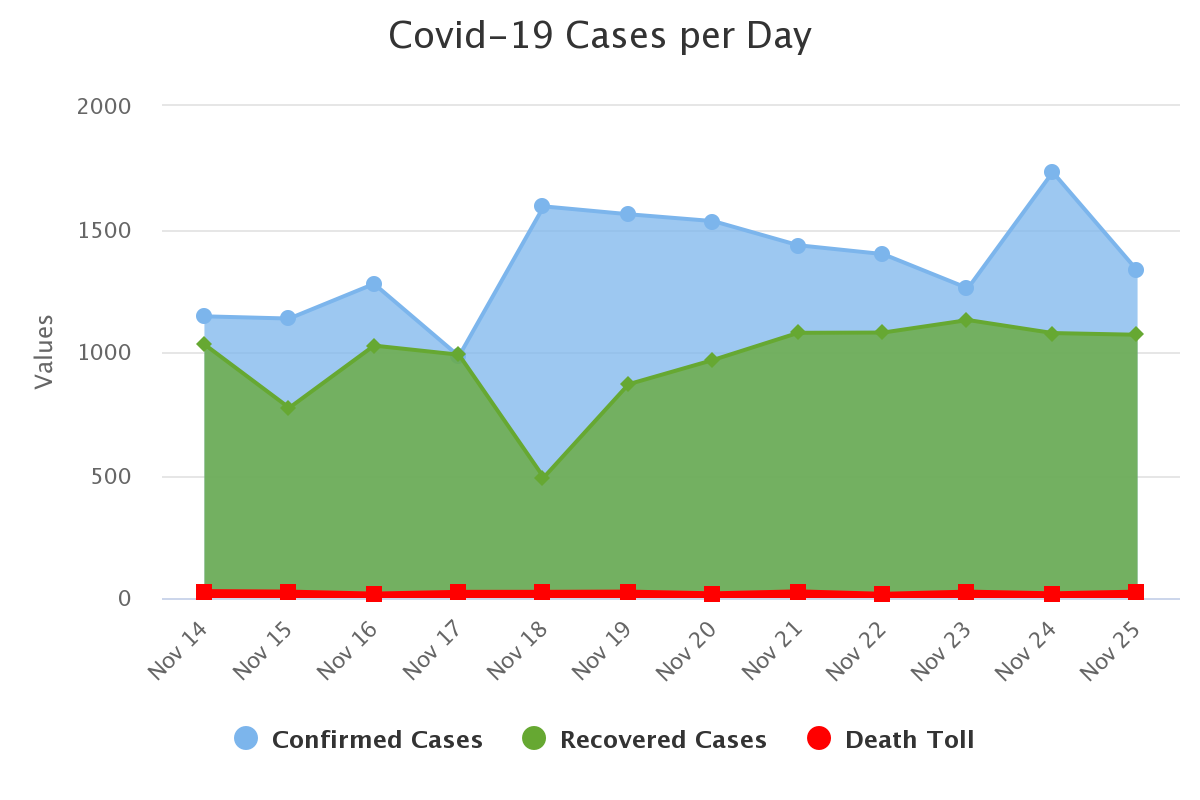
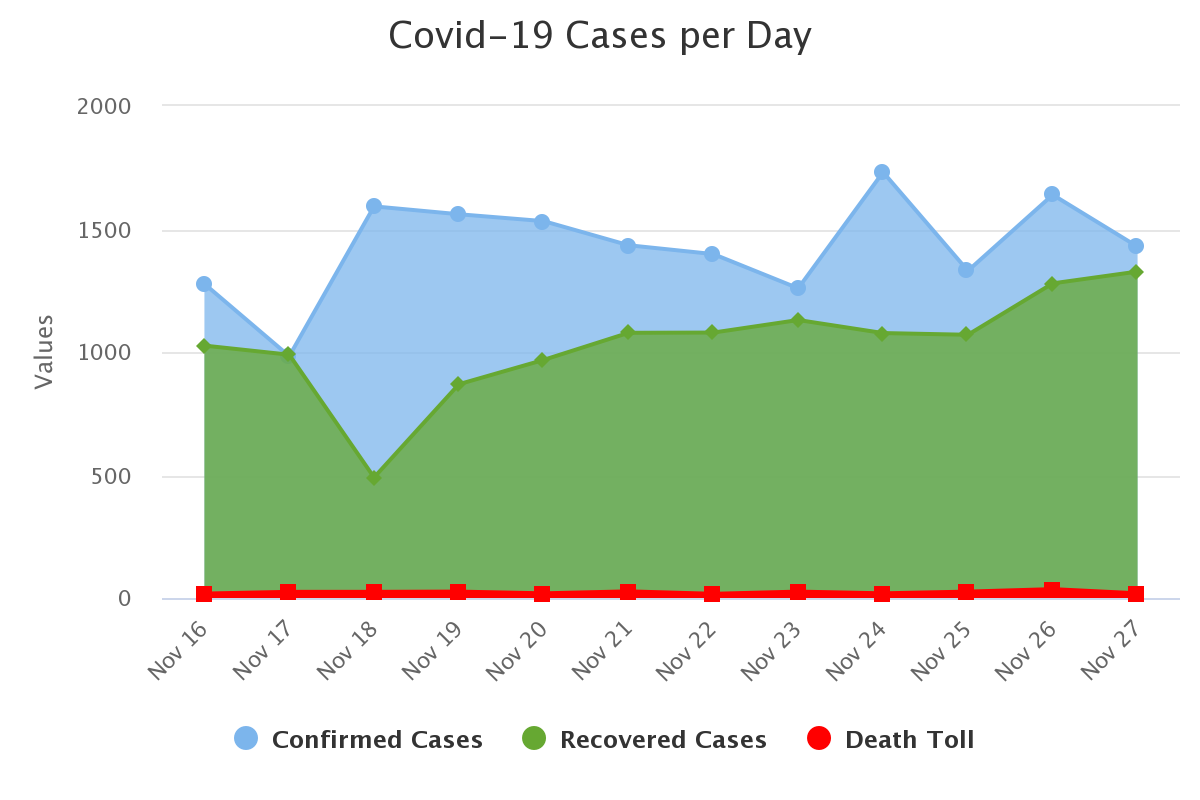
seventh commit

diff --git a/index.html b/index.html
@@ -13,7 +13,7 @@
 <link rel="stylesheet" href="https://cdnjs.cloudflare.com/ajax/libs/font-awesome/4.7.0/css/font-awesome.min.css">
 
 <meta property="og:image" content="https://covid-19infoweb.netlify.app/images1/icon1.png" />
-<meta property="og:description" content="Nov 25, 8:00 PM" />
+<meta property="og:description" content="Nov 27, 8:00 PM" />
 <meta property="og:title" content="Covid-19 Info in Myanmar" />
 <meta property="og:url" content="https://covid-19infoweb.netlify.app/" />
 <meta property="og:type"          content="informative website" />
@@ -189,7 +189,7 @@ src: url('https://cdn.rawgit.com/LeonarAung/MyanmarFont/6cf1262f/mon3.woff') for
             <div class="col-md-12 col-sm-12">
               <hr style="margin-bottom: 10px;"color="orange">
  <marquee bgcolor="orange"> 
-  <div class="running" style="font-size: 22px;color: #fff;font-family: sans-serif;">Last Updated on 25th Nov 8PM:<q>Myanmar currently has +17,347 lab tests, +1,330 confirmed cases, +1,070 recovered cases, and +26 deaths.</q><div>
+  <div class="running" style="font-size: 22px;color: #fff;font-family: sans-serif;">Last Updated on 27th Nov 8PM:<q>Myanmar currently has +18,197 lab tests, +1,428 confirmed cases, +1,327 recovered cases, and +19 deaths.</q><div>
     </marquee>
  <hr style=" margin-top: 4px;" color="orange">
             </div>
@@ -204,41 +204,41 @@ src: url('https://cdn.rawgit.com/LeonarAung/MyanmarFont/6cf1262f/mon3.woff') for
         </a>
             <div class="row">
 
-  <div class="col-md-3 col-sm-12">
+  <div class="col-md-3 col-sm-6 col-12">
 
   <div class="card text-white bg-dark mb-3" style="max-width: 18rem;">
   <div class="card-body">
     <h5 class="card-title">Total Lab Tests</h5>
     <p class="card-text" style="font-size: 18px;
-    font-weight: bold; color: #ffffff;">1,076,382</p>
+    font-weight: bold; color: #ffffff;">1,114,697</p>
   </div>
 </div>
 </div>
-    <div class="col-md-3 col-sm-12">
+    <div class="col-md-3 col-sm-6 col-12">
   <div class="card text-white bg-primary mb-3" style="max-width: 18rem;">
   <div class="card-body">
     <h5 class="card-title">Confirmed Cases</h5>
     <p class="card-text" style="font-size: 18px;
-    font-weight: bold; color: #ffffff;">83,566</p>
+    font-weight: bold; color: #ffffff;">86,633</p>
   </div>
 </div>
   </div>
-  <div class="col-md-3 col-sm-12">
+  <div class="col-md-3 col-sm-6 col-12">
   <div class="card text-white bg-success mb-3" style="max-width: 18rem;">
   <div class="card-body">
     <h5 class="card-title">Recovered Cases</h5>
     <p class="card-text" style="font-size: 18px;
-    font-weight: bold; color: #ffffff;">63,366</p>
+    font-weight: bold; color: #ffffff;">65,972</p>
   </div>
 </div>
 </div>
-  <div class="col-md-3 col-sm-12">
+  <div class="col-md-3 col-sm-6 col-12">
 
   <div class="card text-white bg-danger mb-3" style="max-width: 18rem;">
   <div class="card-body">
-    <h5 class="card-title">Death Toll</h5>
+    <h5 class="card-title">Official Death Toll</h5>
     <p class="card-text" style="font-size: 18px;
-    font-weight: bold; color: #ffffff;">1,810</p>
+    font-weight: bold; color: #ffffff;">1,865</p>
   </div>
 </div>
  </div>
@@ -292,76 +292,77 @@ src: url('https://cdn.rawgit.com/LeonarAung/MyanmarFont/6cf1262f/mon3.woff') for
     <tr>
       <td>1.</td>
       <td>Yangon</td>
-      <td>59,645</td>
+      <td>63,396</td>
     </tr>
+    <tr>
       <td>2.</td>
-      <td>Bago</td>
-      <td>4,425</td>
+      <td>Mandalay</td>
+      <td>5,225</td>
     </tr>
     <tr>
       <td>3.</td>
-      <td>Mandalay</td>
-      <td>4,398</td>
+      <td>Bago</td>
+      <td>4,867</td>
     </tr>
     <tr>
       <td>4.</td>
       <td>Rakhine</td>
-      <td>3,483</td>
+      <td>3,556</td>
     </tr>
     <tr>
       <td>5.</td>
       <td>Ayeyarwaddy</td>
-      <td>2,452</td>
+      <td>2,723</td>
     </tr>
     <tr>
       <td>6.</td>
       <td>Magaway</td>
-      <td>1,283</td>
+      <td>1,435</td>
     </tr>
     <tr>
       <td>7.</td>
       <td>Mon</td>
-      <td>1,059</td>
+      <td>1,263</td>
     </tr>
     <tr>
       <td>8.</td>
       <td>Sagaing</td>
-      <td>710</td>
+      <td>791</td>
     </tr>
     <tr>
       <td>9.</td>
       <td>Kayin</td>
-      <td>543</td>
+      <td>604</td>
     </tr>
     <tr>
       <td>10.</td>
       <td>Naypyidaw</td>
-      <td>365</td>
+      <td>385</td>
     </tr>
      <tr>
       <td>11.</td>
       <td>Thanintharyi</td>
-      <td>350</td>
+      <td>351</td>
     </tr>
     <tr>
       <td>13.</td>
       <td>Shan</td>
-      <td>262</td>
+      <td>304</td>
     </tr>
      <tr>
       <td>12.</td>
       <td>Kachin</td>
-      <td>167</td>
+      <td>196</td>
     </tr>
     <tr>
       <td>14.</td>
       <td>Chin</td>
-      <td>92</td>
+      <td>94</td>
     </tr>
      <tr>
       <td>15.</td>
       <td>Kayah</td>
-      <td>12</td>
+      <td>15</td>
     </tr>
     <!-- <tr>
       <th scope="row">1</th>
@@ -401,77 +402,77 @@ src: url('https://cdn.rawgit.com/LeonarAung/MyanmarFont/6cf1262f/mon3.woff') for
       <tr>
       <td>1.</td>
       <td>North Okkalar</td>
-      <td>4,314</td>
+      <td>4,447</td>
     </tr>
     <tr>
       <td>2.</td>
       <td>Mingalardon</td>
-      <td>4,108</td>
+      <td>4,295</td>
     </tr>
     <tr>
       <td>3.</td>
       <td>Hlaing Thar Yar</td>
-      <td>3,746</td>
+      <td>3,810</td>
     </tr>
     <tr>
       <td>4.</td>
       <td>Insein</td>
-      <td>3,333</td>
+      <td>3,482</td>
     </tr>
     <tr>
       <td>5.</td>
       <td>Thingangyun</td>
-      <td>3,246</td>
+      <td>3,339</td>
     </tr>
     <tr>
       <td>6.</td>
       <td>Mayangone</td>
-      <td>2,593</td>
+      <td>2,736</td>
     </tr>
       <tr>
       <td>7.</td>
       <td>ShwePyiThar</td>
-      <td>2,487</td>
+      <td>2,595</td>
     </tr>
     <tr>
       <td>8.</td>
       <td>Hlaing</td>
-      <td>2,238</td>
+      <td>2,317</td>
     </tr>
     <tr>
       <td>9.</td>
       <td>Thanlyin</td>
-      <td>2,208</td>
+      <td>2,268</td>
     </tr>
     <tr>
     <td>10.</td>
       <td>Tamwe</td>
-      <td>2,168</td>
+      <td>2,236</td>
     </tr>
     <tr>
       <td>11.</td>
       <td>South Okkalar</td>
-      <td>2,154</td>
+      <td>2,217</td>
     </tr>
     <tr>
       <td>12.</td>
       <td>Dagon(South)</td>
-      <td>1,912</td>
+      <td>2,029</td>
     </tr>
     <tr>
       <td>13.</td>
       <td>Kamayut</td>
-      <td>1,785</td>
+      <td>1,858</td>
     </tr>
     <tr>
     <td>14.</td>
       <td>Tharketa</td>
-      <td>1,759</td>
+      <td>1,796</td>
     </tr>
     <tr>
       <td>15.</td>
       <td>Kyimindaing</td>
-      <td>1,737</td>
+      <td>1,756</td>
     </tr>
         
     
@@ -535,15 +536,7 @@ src: url('https://cdn.rawgit.com/LeonarAung/MyanmarFont/6cf1262f/mon3.woff') for
 
 
                    </p></center>
-        <!-- Footer -->
-    <!-- <script type="text/javascript" src="https://covid-19.te4m.org/fd_bootstrap/js/jquery-3.3.1.min.js"></script>
-
-<script type="text/javascript" src="https://covid-19.te4m.org/fd_bootstrap/js/bootstrap.js"></script>
-<script type="text/javascript" src="https://covid-19.te4m.org/fd_bootstrap/js/popper.min.js"></script>
-
-<script type="text/javascript" src="https://covid-19.te4m.org/plugins/axios/axios.min.js"></script>
-<script src="https://covid-19.te4m.org/plugins/vue/dist/vue_2.js"></script> -->
-
+      
 
 
 
@@ -622,14 +615,14 @@ src: url('https://cdn.rawgit.com/LeonarAung/MyanmarFont/6cf1262f/mon3.woff') for
     text: 'Covid-19 Tests per Day'
   },
   xAxis: {
-    categories: ['Nov 14','Nov 15','Nov 16','Nov 17','Nov 18','Nov 19','Nov 20','Nov 21', 'Nov 22', 'Nov 23','Nov 24','Nov 25']
+    categories: ['Nov 16','Nov 17','Nov 18','Nov 19','Nov 20','Nov 21', 'Nov 22', 'Nov 23','Nov 24','Nov 25','Nov 26','Nov 27']
   },
   credits: {
     enabled: false
   },
   series: [{
     name: 'Tests per day',
-    data: [17250,15281,14777,13347,21232,17954,16999,18090,14881,18212,21585,17347],
+    data: [14777,13347,21232,17954,16999,18090,14881,18212,21585,17347,20118,18197],
     color: "black"
   }]
 });
@@ -700,22 +693,22 @@ src: url('https://cdn.rawgit.com/LeonarAung/MyanmarFont/6cf1262f/mon3.woff') for
     text: 'Covid-19 Cases per Day'
   },
   xAxis: {
-    categories: ['Nov 14','Nov 15','Nov 16','Nov 17','Nov 18','Nov 19','Nov 20','Nov 21', 'Nov 22', 'Nov 23', 'Nov 24','Nov 25']
+    categories: ['Nov 16','Nov 17','Nov 18','Nov 19','Nov 20','Nov 21', 'Nov 22', 'Nov 23', 'Nov 24','Nov 25', 'Nov 26', 'Nov 27']
   },
   credits: {
     enabled: false
   },
   series: [{
     name: 'Confirmed Cases',
-    data: [1145,1136,1277,983,1592,1560,1532,1434,1398,1259,1731,1330]
+    data: [1277,983,1592,1560,1532,1434,1398,1259,1731,1330,1639,1428]
   }, {
     name: 'Recovered Cases',
-    data: [1031,773,1026,989,490,869,968,1078,1079,1130,1077,1070],
+    data: [1026,989,490,869,968,1078,1079,1130,1077,1070,1279,1327],
     color: "#66a832"
 
   }, {
     name: 'Death Toll',
-    data: [28,26,18,25,25,26,19,27,17,26,19,26],
+    data: [18,25,25,26,19,27,17,26,19,26,36,19],
     color: "red"
   }]
 });

diff --git a/InfoPage.html b/InfoPage.html
@@ -13,7 +13,7 @@
 <link rel="stylesheet" href="https://cdnjs.cloudflare.com/ajax/libs/font-awesome/4.7.0/css/font-awesome.min.css">
 
 <meta property="og:image" content="https://covid-19infoweb.netlify.app/images1/icon1.png"/>
-<meta property="og:description" style="font-family:Unicode;" content="နို၀င်ဘာ ၂၅ ရက်၊ ည ၈:၀၀" />
+<meta property="og:description" style="font-family:Unicode;" content="နို၀င်ဘာ ၂၇ ရက်၊ ည ၈:၀၀" />
 <meta property="og:title" style="font-family:Unicode;" content="မြန်မာနိုင်ငံတွင်ကိုဗစ်ဖြစ်ပွားနေမှုအခြေအနေ" />
 <meta property="og:url" content="https://covid-19infoweb.netlify.app/" />
 <meta property="og:type"          content="informative website" />
@@ -208,7 +208,8 @@ img:hover  {
             <div class="col-md-12 col-sm-12">
               <hr style="margin-bottom: 10px;"color="#3F51B5">
  <marquee bgcolor="#3F51B5"> 
-  <div class="running" style='font-family:Unicode;font-size: 20px; color: #FFFFFF; font-weight: 600px'> ကျန်းမာရေးနှင့်အားကစားဝန်ကြီးဌာန၏ နို၀င်ဘာ ၂၅ ရက်၊ ည ၈:၀၀ တွင် ထုတ်ပြန်သောသတင်းအရ မြန်မာနိုင်ငံတွင် စစ်ဆေးပြီးသည့်ဓာတ်ခွဲနမူနာစုစုပေါင်း ၁,၀၇၆,၃၈၂ ဦး၊ ဓာတ်ခွဲအတည်ပြုလူနာစုစုပေါင်း ၈၃,၅၆၆ ဦး၊ ပြန်လည်ကောင်းမွန်လာသူစုစုပေါင်း ၆၃,၃၆၆ ဦး၊ နှင့် သေဆုံးလူနာစုစုပေါင်း ၁,၈၁၀ ဦး ရှိပါသည်။ ။<div>
+  <div class="running" style='font-family:Unicode;font-size: 20px; color: #FFFFFF; font-weight: 600px'> ကျန်းမာရေးနှင့်အားကစားဝန်ကြီးဌာန၏ နို၀င်ဘာ ၂၇ ရက်၊ ည ၈:၀၀ တွင် ထုတ်ပြန်သောသတင်းအရ မြန်မာနိုင်ငံတွင် စစ်ဆေးပြီးသည့်ဓာတ်ခွဲနမူနာစုစုပေါင်း ၁,၁၁၄,၆၉၇ ဦး၊ ဓာတ်ခွဲအတည်ပြုလူနာစုစုပေါင်း ၈၆,၆၃၃ ဦး၊ ပြန်လည်ကောင်းမွန်လာသူစုစုပေါင်း ၆၅,၉၇၂ ဦး၊ နှင့် သေဆုံးလူနာစုစုပေါင်း ၁,၈၆၅ ဦး ရှိပါသည်။ ။
+  </div>
     </marquee>
  <hr style=" margin-top: 4px;" color="#3F51B5">
             </div>
@@ -228,7 +229,7 @@ img:hover  {
    <div class="card">
     <!-- <div class="shadow-sm pt-1 pb-2 mb-5 bg-white rounded"> -->
     
-    <img class="info" id="zoomOut" src="images1/info1.png">
+    <img class="info1" src="images1/info1.png" alt="this is the amount of people who are infected, recovered & died due to COVID-19 in Myanmar.">
     <center><div class="fb-like" data-href="https://covid-19infoweb.netlify.app/images1/info1.png" data-width="" data-layout="button_count" data-action="like" data-size="small" data-share="true"></div></center>
 
    </div>
@@ -237,7 +238,7 @@ img:hover  {
    <div class="card">
     <!-- <div class="shadow-sm pt-1 pb-2 mb-5 bg-white rounded"> -->
     
-    <img class="info" src="images1/info2.png">
+    <img class="info2" src="images1/info2.png" alt="this is the percentage of people who are infected, recovered & died due to COVID-19 in Myanmar.">
     <center><div class="fb-like" data-href="https://covid-19infoweb.netlify.app/images1/info2.png" data-width="" data-layout="button_count" data-action="like" data-size="small" data-share="true"></div></center>
 
    </div>
@@ -248,7 +249,7 @@ img:hover  {
    <div class="card">
     <!-- <div class="shadow-sm pt-1 pb-2 mb-5 bg-white rounded"> -->
 
-    <img class="info-data" src="images1/info_data.png">
+    <img class="info-data" src="images1/info_data.png" alt="this is the amount of people who are infected people in the townships in Yangon with the highest portion due to COVID-19 in Myanmar.">
     <center><div class="fb-like" data-href="https://covid-19infoweb.netlify.app/images1/info_data.png" data-width="" data-layout="button_count" data-action="like" data-size="small" data-share="true"></div></center>
 
    </div>
@@ -259,7 +260,7 @@ img:hover  {
 
 <style>
 
-.photo ul{
+.photo ul {
   text-align: center;
   word-spacing: 1px;
   margin: 0px;
@@ -276,11 +277,23 @@ img:hover  {
     width: 100%;
     height: 485px;
 }
-@media (min-width: 320px) and (max-width: 800px){
-  .photo ul{
+@media (min-width: 320px) and (max-width: 425px){
+  .photo ul {
     display: grid;
     grid-template-columns: 1fr;
   }
+  }
+
+@media (min-width: 426px) and (max-width: 800px){
+
+  .photo ul{
+    display: grid;
+    grid-template-columns: 1fr 1fr;
+  }
+  ul .info-data{
+    display: none;
+      }
+  
   }
   </style>
   <div class="row">
